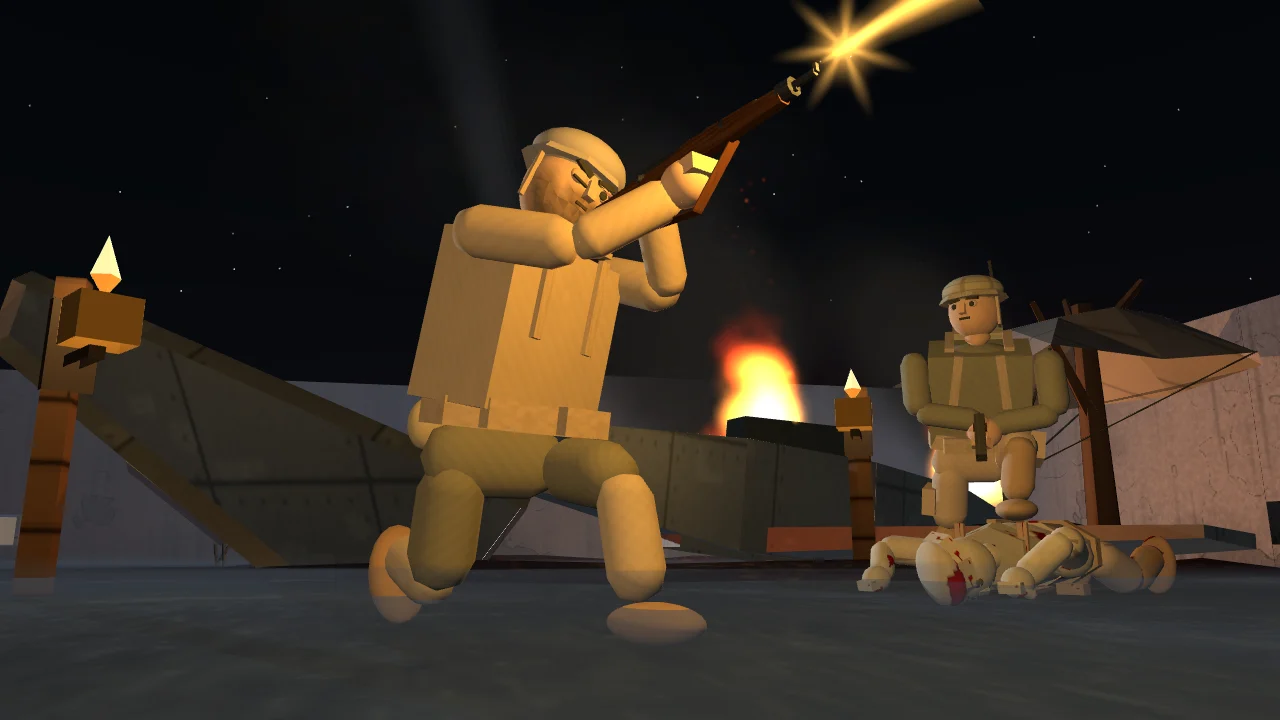
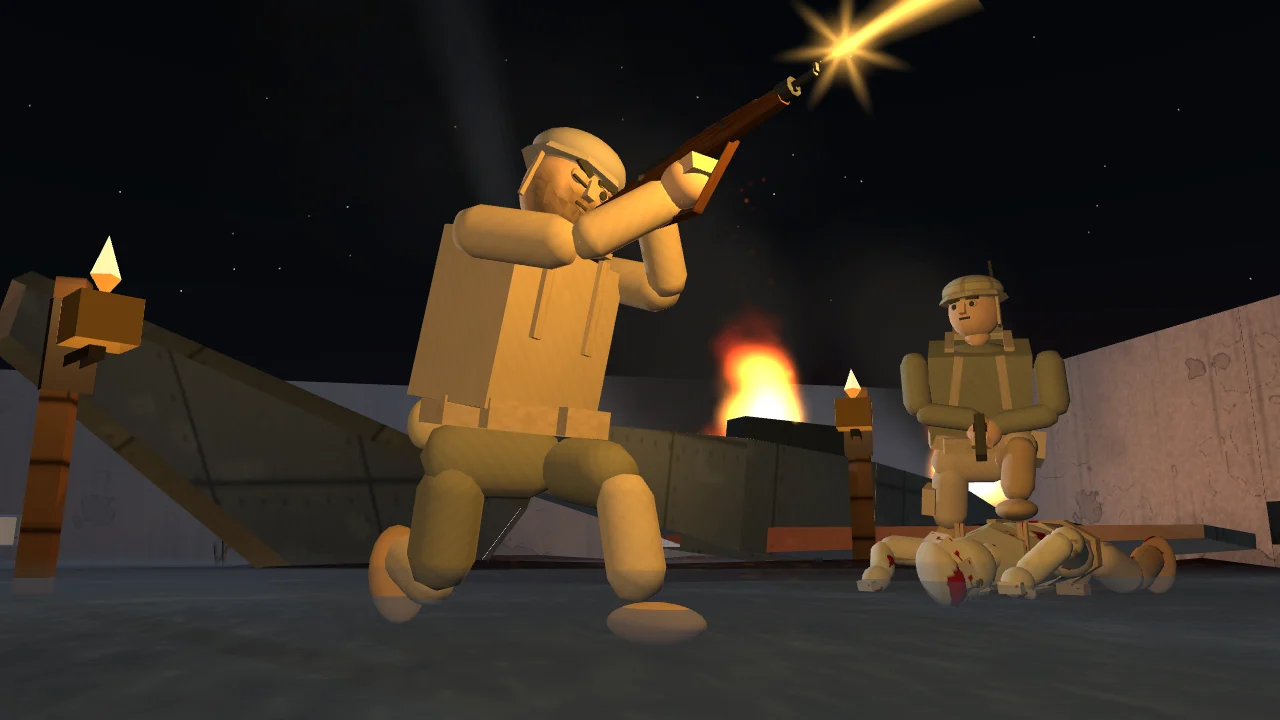
accueil-v2: parachute retiré, volet de tôle jamais dans le sol
Claude-Session: https://claude.ai/code/session_01MNJ5sgcxUrG12pySj3aX8r

Changed region(s): [[0.7812, 0.3972, 1.0, 0.7333]]

diff --git a/scene-v2/js/avion.js b/scene-v2/js/avion.js
@@ -190,13 +190,29 @@ export function creerAvion({ epoque, avion, lookup, floor, palette, textures, re
     pivot.add(pan);
     group.add(pivot);
     const TAU = Math.PI * 2;
+    // Retour du propriétaire (« le clapet ne doit pas aller dans le sol ») : course du volet limitée aux angles où tous ses coins restent au
+    // moins à 1,5 au-dessus du sol (le groupe est posé tel quel dans le monde : y = 0 au sol). Les battements sont ramenés dans cette course.
+    const coins = [];
+    const g = pan.geometry.attributes.position;
+    for (let i = 0; i < g.count; i += 1) coins.push(new THREE.Vector3().fromBufferAttribute(g, i));
+    pivot.updateMatrixWorld(true);
+    const bas = (angle) => {
+      const m = new THREE.Matrix4().multiplyMatrices(pivot.matrixWorld, new THREE.Matrix4().makeRotationZ(angle));
+      return Math.min(...coins.map((q) => q.clone().applyMatrix4(m).y));
+    };
+    const COURSE = [-1.3, 0.35];
+    const permis = [];
+    for (let i = 0; i <= 165; i += 1) { const x = COURSE[0] + (i / 165) * (COURSE[1] - COURSE[0]); if (bas(x) >= 1.5) permis.push(x); }
+    const [amin, amax] = permis.length ? [Math.min(...permis), Math.max(...permis)] : [0, 0];
     group.userData.tole = {
+      course: [amin, amax],
+      bas,
       pivot,
       update(t) {
         const u = t / 8;
         // Angle autour de la charnière (0 : dans le plan de l'aile, prolongé) : de −1,3 à +0,35 rad, jamais replié vers l'aile.
-        const a = -0.5 + 0.7 * Math.sin(TAU * 4 * u) ** 3 + 0.12 * Math.sin(TAU * 9 * u + 0.7);
-        pan.rotation.z = a;
+        const a = -0.5 + 0.7 * Math.sin(TAU * 4 * u) ** 3 + 0.12 * Math.sin(TAU * 9 * u + 0.7); // de −1,32 à +0,32
+        pan.rotation.z = amin + ((a - COURSE[0]) / (COURSE[1] - COURSE[0])) * (amax - amin);
       },
     };
   }

diff --git a/scene-v2/js/scene.js b/scene-v2/js/scene.js
@@ -85,7 +85,8 @@ try {
     const origine = stage.localToWorld(new THREE.Vector3(...nums(q.get('projecteur'), [320, 0, -1300]))).setY(60);
     const versStage = stage.position.clone().sub(origine);
     anim.push(creerFaisceau({ origine, capMilieu: Math.atan2(versStage.x, versStage.z) + Number(q.get('faisceau') ?? 0.2), palette, elevation: 0.95, amplitude: 0.55 }));
-    anim.push(creerParachute({ epoque: m.epoque, lookup: m.lookup, position: stage.localToWorld(new THREE.Vector3(...nums(q.get('parachute'), [240, 0, -160]))), cap: Number(q.get('parachutecap') ?? 0.8), k: Number(q.get('parachutek') ?? 2.2) }));
+    // Parachute : retiré (choix du propriétaire) ; ?parachute=x,0,z le remet, pour essayer.
+    if (q.get('parachute')) anim.push(creerParachute({ epoque: m.epoque, lookup: m.lookup, position: stage.localToWorld(new THREE.Vector3(...nums(q.get('parachute'), [240, 0, -160]))), cap: Number(q.get('parachutecap') ?? 0.8), k: Number(q.get('parachutek') ?? 2.2) }));
     for (const a of anim) scene.add(a.group);
   }
 

diff --git a/scene-v2/planche.html b/scene-v2/planche.html
@@ -92,7 +92,7 @@
             <li>Avion P-51 écrasé et en flammes à la place de l'hélicoptère (agrandi, nez planté dans le sol, queue relevée).</li>
             <li>Avion enfoncé dans la terre ; son aile arrachée plantée dans le sol à gauche de l'image.</li>
             <li>Décor animé : tôle qui bat au vent sur l'aile, faisceau de projecteur dans le ciel, braises du feu, parachute qui ondule.</li>
-            <li>Tôle accrochée au bord de l'aile (elle la traversait) ; parachute décalé : on voit l'arbre mort qui le porte.</li>
+            <li>Tôle accrochée au bord de l'aile (elle la traversait), jamais dans le sol ; parachute retiré.</li>
           </ul>
         </li>
         <li>

diff --git a/Docs/ref/scene-accueil-v2.md b/Docs/ref/scene-accueil-v2.md
@@ -146,14 +146,15 @@ personnage 1, tenues, visages, barbe, gilets.
   sur la boucle de 8 s (nombre entier de cycles), `?animations=0` pour les retirer :
   - **tôle qui bat au vent** sur l'aile plantée à gauche (`userData.tole`, `scene-v2/js/avion.js`) : volet de tôle de l'avion accroché par une
     charnière au **bord de fuite** de l'aile, qui pend au-delà ; 4 battements par boucle et un frémissement, angle de −1,3 à +0,35 rad autour
-    du bord : il ne rentre jamais dans l'aile (retour « le clapet traverse l'aile ») ; `?tolepos=` le déplace le long du bord ;
+    du bord : il ne rentre jamais dans l'aile (retour « le clapet traverse l'aile »), et sa course est limitée aux angles où il reste au moins
+    à 1,5 au-dessus du sol (retour « ni dans le sol » ; de −1,3 à −0,18 rad, point le plus bas à 2,1, contrôlé par `verifier.mjs`) ;
+    `?tolepos=` le déplace le long du bord ;
   - **faisceau du projecteur** (`creerFaisceau`, `scene-v2/js/animations.js`) : le projecteur du jeu est éteint et derrière les caméras ; un cône
     de lumière part de loin derrière la scène et balaie le ciel, un aller-retour par boucle (`?projecteur=x,0,z`, `?faisceau=` : décalage du cap) ;
   - **braises et étincelles** (`creerBraises`) qui montent du feu de l'avion en tournoyant (vies de 8/3 à 8/7 s), et **fumée plus épaisse et plus
     sombre** (mélange des jetons de fumée du jeu) ;
-  - **parachute du jeu** : sa voilure est accrochée à un **arbre mort** (modèle du jeu : tronc, trois branches, suspentes, harnais vide ;
-    `creerParachute`), replacé à droite du personnage 2 pour que le tronc se voie (retour « comment il tient ? »), plus grand ; la voilure ondule
-    au vent (2 et 3 cycles par boucle) ; `?parachute=x,0,z`, `?parachutek=`, `?parachutecap=`. Hors du cadre sur téléphone.
+  - **parachute** : essayé puis **retiré** (choix du propriétaire) ; `?parachute=x,0,z` le remet pour essayer (modèle du jeu, voilure sur un
+    arbre mort, qui ondule ; `creerParachute`, `?parachutek=`, `?parachutecap=`).
 - `?decor=avant` : l'ancien décor (hélicoptère agrandi, voitures), comme le réglage `?test=1&decor=avant` du jeu. Atelier : `?avionlacet=degrés`
   fait pivoter l'épave autour du nez (essais à 140, 180, 220° : l'avion passait derrière le personnage 2 et le mur ; orientation du jeu gardée).
 

diff --git a/Docs/lots/lot-5a.md b/Docs/lots/lot-5a.md
@@ -225,6 +225,12 @@ recule puis revient) ; boucle parfaite (paysage 0,50 pour une moyenne de 0,56 ; 
 - Vérifications : `node scene-v2/outils/verifier.mjs` 53/53 ; boucle parfaite (paysage 0,54 pour une moyenne de 0,62 ; portrait 0,44 pour 0,59) ;
   planche refaite.
 
+## Parachute retiré, tôle hors du sol (20/11/2026, branche `accueil-v2-anim-3`)
+- « Retire le parachute » : retiré (il reste disponible avec `?parachute=x,0,z`).
+- « Vérifie que le clapet ne va pas non plus dans le sol » : il y allait (6,4 unités sous le sol vers 4,5 s). Sa course est maintenant limitée aux
+  angles où tous ses coins restent au-dessus du sol : point le plus bas à 2,1 sur toute la boucle. Contrôle ajouté à `verifier.mjs`.
+- Vérifications : `node scene-v2/outils/verifier.mjs` 55/55 ; boucle parfaite ; planche refaite.
+
 ## État git
 - Commits `accueil-v2 A` à `accueil-v2 E` sur la branche `accueil-v2` (poussée), PR vers `main` fusionnée par l'agent (règle de
   `CLAUDE.md`) : rien n'est visible des visiteurs.
